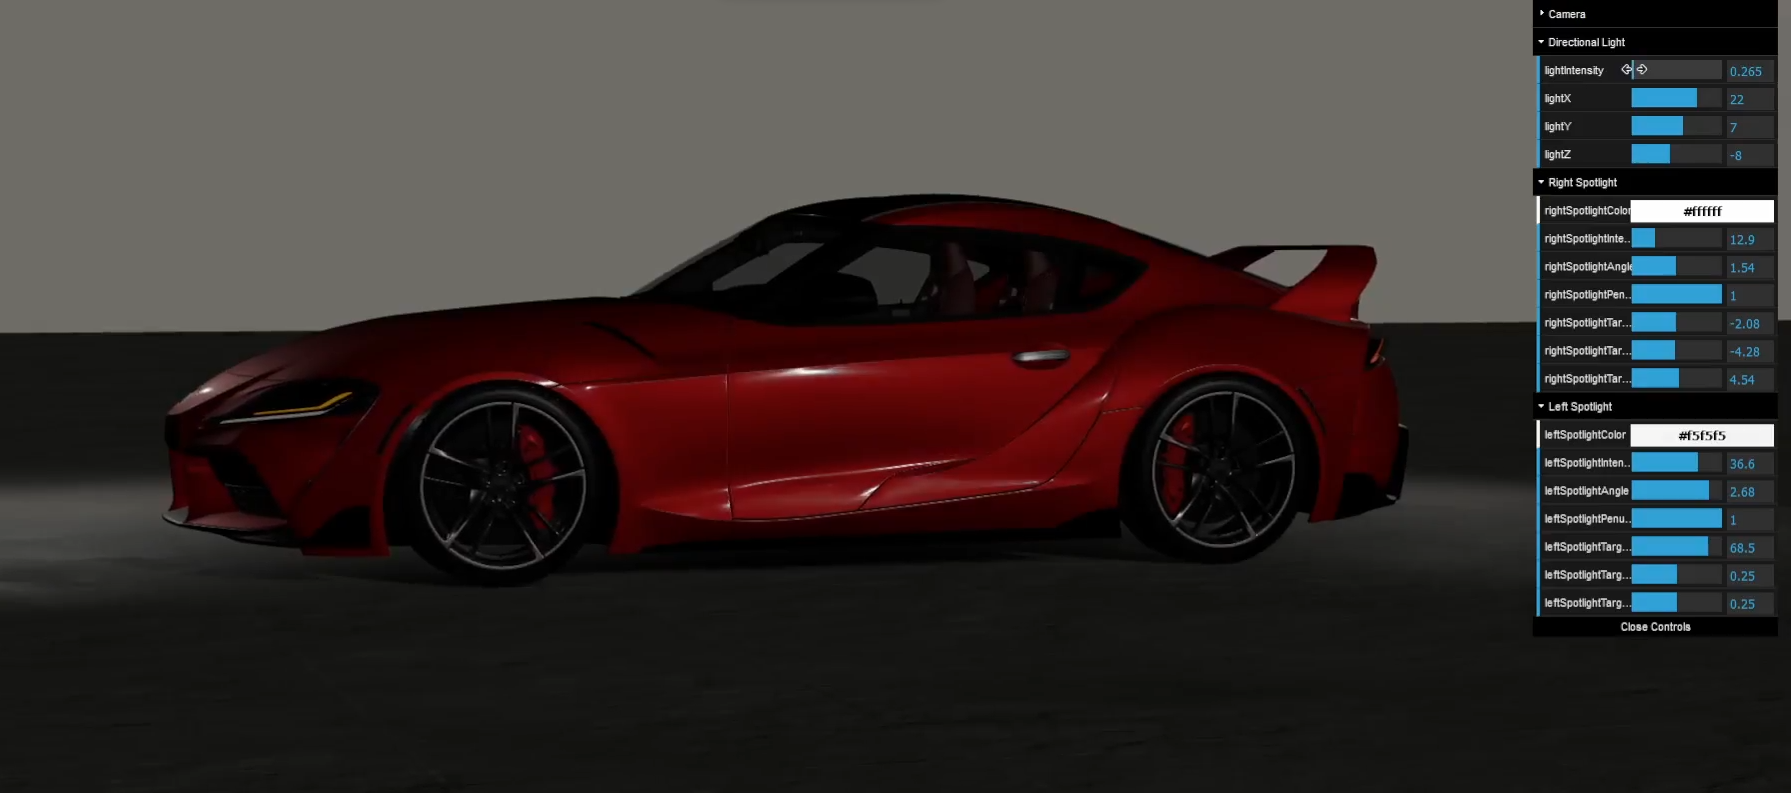
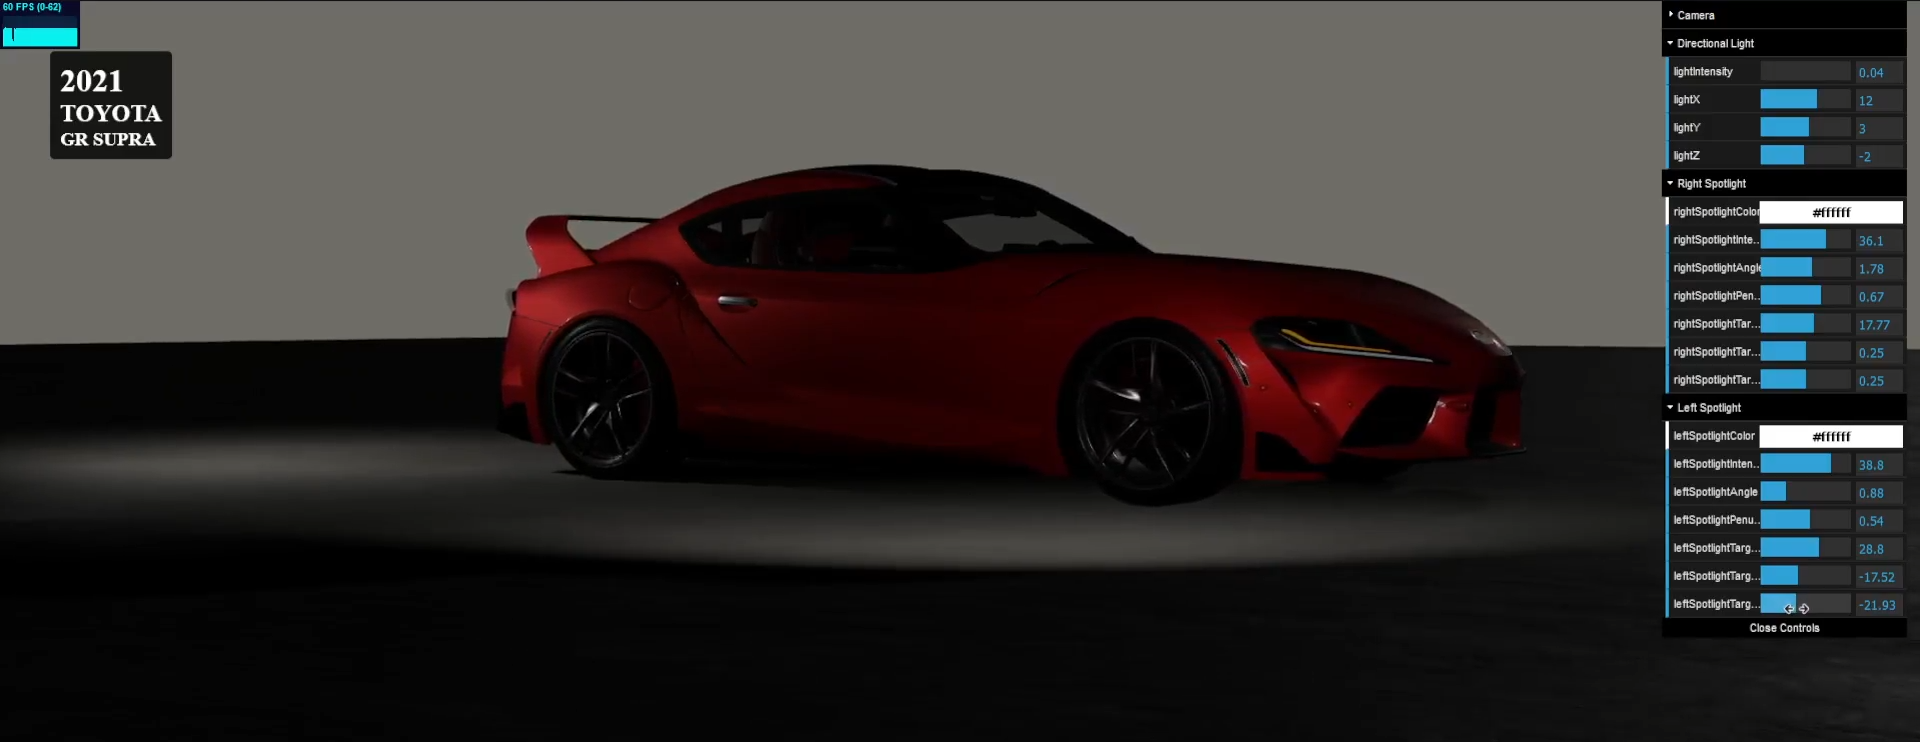
added spotlight defining process

diff --git a/src/pages/blogs/gran-turismo-showroom/index.tsx b/src/pages/blogs/gran-turismo-showroom/index.tsx
@@ -12,10 +12,12 @@ import { Space_Grotesk } from "next/font/google";
 import DirectionalLightSnippet from "@/components/blog-components/gtshowroom-accordion-components/snippets/directionalLightSnippet";
 import FloorSnippet from "@/components/blog-components/gtshowroom-accordion-components/snippets/floorSnippet";
 import ModelShadowSnippet from "@/components/blog-components/gtshowroom-accordion-components/snippets/modelShadowSnippet";
+import SpotlightSnippet from "@/components/blog-components/gtshowroom-accordion-components/snippets/spotlightSnippet";
 
 import ModelShadowSnippetDescription from "@/components/blog-components/gtshowroom-accordion-components/snippets/snippet-descriptions/modelShadowSnippetDescription";
 import DirectionalLightSnippetDescription from "@/components/blog-components/gtshowroom-accordion-components/snippets/snippet-descriptions/directionalLightSnippetDescription";
 import FloorSnippetDescription from "@/components/blog-components/gtshowroom-accordion-components/snippets/snippet-descriptions/floorSnippetDescription";
+import SpotlightSnippetDescription from "@/components/blog-components/gtshowroom-accordion-components/snippets/snippet-descriptions/spotlightSnippetDescription";
 
 const spaceGrotesk = Space_Grotesk({ subsets: ["latin"] });
 
@@ -615,10 +617,69 @@ export default function index() {
 
             <p className="leading-7 mb-8 opacity-90">
               If you've noticed, the background is still gray-ish even with the
-              darker lighting. It's because it's just a color that I set
-              initially so I can properly scope out the entire scene. It'll be
-              changed later on.
+              darker lighting. It's because it doesn't get affected by
+              DirectionalLight and it's just a color that I set initially so I
+              can properly scope out the entire scene. It'll be changed later
+              on.
             </p>
+          </section>
+
+          <section className="section11">
+            <h2 className="text-xl sm:text-2xl font-bold mt-20 mb-3">
+              Getting in the mood
+            </h2>
+
+            <p className="leading-7 mb-8 opacity-90">
+              After testing out different lighting settings, I had an idea where
+              there could be another light source pointing towards the car, but
+              coming from above.
+            </p>
+
+            <p className="leading-7 mb-8 opacity-90">
+              It's a trick used by many to create a dramatic and for lack of a
+              better word, sort of "menacing" mood for many scenes. You know
+              those horror movies/games, where there's a narrow corridor and
+              there's a figure standing at the end of the corridor, with a
+              spotlight pointing towards it from above? Something similar to the
+              corridor scene in Stanley Kubrick's "The Shining".
+            </p>
+
+            <figure
+              className={`bg-[${LIGHTER_BG}] p-3 rounded-md my-8 mx-auto`}
+            >
+              <Image
+                src="/article-files/gran-turismo-showroom/topspotlight.png"
+                alt=""
+                width={IMAGE_DIMENSIONS}
+                height={IMAGE_DIMENSIONS}
+                quality={IMAGE_QUALITY}
+                className="rounded-md"
+              />
+              <figcaption className="mt-2 text-center">
+                The look I'm going for
+              </figcaption>
+            </figure>
+
+            <p className="leading-7 mb-8 opacity-90">
+              I also decided that there would be other light sources coming from
+              directly the rear, right, left and front sides of the car. And
+              this is the point where I'll tell you my settings.
+            </p>
+
+            <Accordion title="Setting up the spotlights">
+              <div className={`bg-[${LIGHTER_BG}] py-3 px-2 rounded-md my-2 mx-auto`}>
+                <SpotlightSnippet />
+              </div>
+              <div className="leading-7 my-4 px-2 opacity-90 w-11/12 mx-auto code-snippet">
+                <h2 className="text-xl sm:text-2xl font-bold my-3 ">
+                  Quick Rundown
+                </h2>
+                <ul className="list-disc">
+                  <SpotlightSnippetDescription/>
+                </ul>
+              </div>
+            </Accordion>
+
           </section>
         </article>
       </motion.main>

diff --git a/src/components/blog-components/gtshowroom-accordion-components/snippets/spotlightSnippet.tsx b/src/components/blog-components/gtshowroom-accordion-components/snippets/spotlightSnippet.tsx
@@ -1,0 +1,47 @@
+import React from 'react'
+
+export default function SpotlightSnippet() {
+    return (
+      <pre className="whitespace-pre-wrap break-words rounded-md text-[0.65rem] sm:text-sm">
+        <code>
+          {`const spotlight = new THREE.SpotLight(WHITE, 5, 20, Math.PI / 3, 0.2);
+const frontSpotlight = new THREE.SpotLight(WHITE, 90, 20, Math.PI * 0.1, 0.25);
+const rearSpotlight = new THREE.SpotLight(WHITE, 90, 20, Math.PI * 0.1, 0.25);
+const rightSpotlight = new THREE.SpotLight(WHITE, 90, 20, Math.PI * 0.1, 0.25);
+const leftSpotlight = new THREE.SpotLight(WHITE, 90, 200, Math.PI * 0.1, 0.25);
+
+const frontOffset = new THREE.Vector3(0, 0, 18); // Front
+const rearOffset = new THREE.Vector3(0, 0, -18); // Rear
+const leftOffset = new THREE.Vector3(-18, 0, 0); // Left
+const rightOffset = new THREE.Vector3(18, 0, 0); // Right
+
+////////// TOP SPOTLIGHT //////////
+spotlight.position.set(0, 9, 0);
+spotlight.target = car1;
+spotlight.castShadow = true;
+spotlight.shadow.bias = -0.001;
+spotlight.shadow.camera.near = 0.1;
+spotlight.shadow.camera.far = 30;
+spotlight.shadow.mapSize.width = 1024;
+spotlight.shadow.mapSize.height = 1024;
+scene.add(spotlight);
+
+////////// FRONT SPOTLIGHT //////////
+// front spotlight config
+scene.add(frontSpotlight);
+
+////////// REAR SPOTLIGHT //////////
+// rear spotlight config
+scene.add(rearSpotlight);
+
+////////// RIGHT SPOTLIGHT //////////
+// right spotlight config
+scene.add(rightSpotlight);
+
+////////// LEFT SPOTLIGHT //////////
+// left spotlight config
+scene.add(leftSpotlight);`}
+        </code>
+      </pre>
+    );
+  }

diff --git a/src/components/blog-components/gtshowroom-accordion-components/snippets/snippet-descriptions/spotlightSnippetDescription.tsx b/src/components/blog-components/gtshowroom-accordion-components/snippets/snippet-descriptions/spotlightSnippetDescription.tsx
@@ -1,0 +1,27 @@
+import React from "react";
+
+export default function SpotlightSnippetDescription() {
+  return (
+    <>
+      <li className="mb-3">
+        I created spotlights using the
+        <code>THREE.SpotLight</code> class. Each spotlight has various
+        parameters that control its properties, including color, intensity,
+        distance, angle, and decay. I also created a <code>WHITE</code> variable
+        that holds the hex code for the color white, and assigned it to the
+        spotlight colors.
+      </li>
+      <li className="mb-3">
+        I set up the offset positions of the spotlights using{" "}
+        <code>THREE.Vector3</code>.
+      </li>
+      <li className="mb-3">
+        I configured the spotlights to have their own positioning, target,
+        enabling shadow casting, and configuring the shadow camera parameters
+        (near, far, map size, bias) to control how shadows are generated and
+        displayed.
+      </li>
+      <li className="mb-3">I then add the spotlights to the scene.</li>
+    </>
+  );
+}
